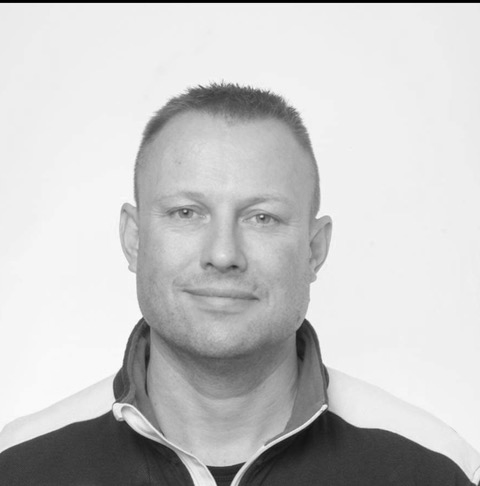
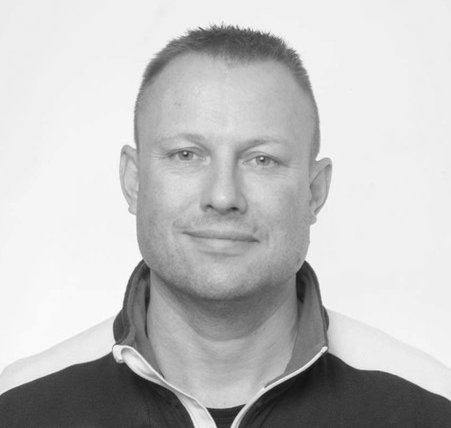
New kim image

diff --git a/_pages/protrptik-som-behandlingsform-og-ledelsesdisciplin.html b/_pages/protrptik-som-behandlingsform-og-ledelsesdisciplin.html
@@ -219,11 +219,12 @@ title: Protreptik som behandlingsform og ledelsesdisciplin
                             alment væsentlige i og for det organisatoriske fællesskab.</p>
                     </div>
                 </div>
+                <h3>Skovvænget</h3>
                 <div>
                     <div class="p-20 pb-0 grid-2 grid-20-80 split-phone r-gap-20">
                         <div class="img-hw150"><img src="/images/graphic/placeholder-profile.jpg" alt=""></div>
                         <div>
-                            <h4>Skovvænget</h4>
+                            <h4>Bo Christoffersen</h4>
                             <p>(Biografi) Qui labore proident dolore sint cillum nisi aute Lorem amet id minim quis
                                 deserunt.
                                 Excepteur

diff --git a/_layouts/pfp.html b/_layouts/pfp.html
@@ -206,7 +206,7 @@ layout: default
                             
                             Master i Business Coaching</p>
                     </div>
-                    <div class="img-hw150"><img src="/images/about/employees/kim-gørtz.jpg" alt=""></div>
+                    <div class="img-hw150"><img src="/images/about/employees/kim-gørtz-m.png" alt=""></div>
 
                 </div>
             </div>
